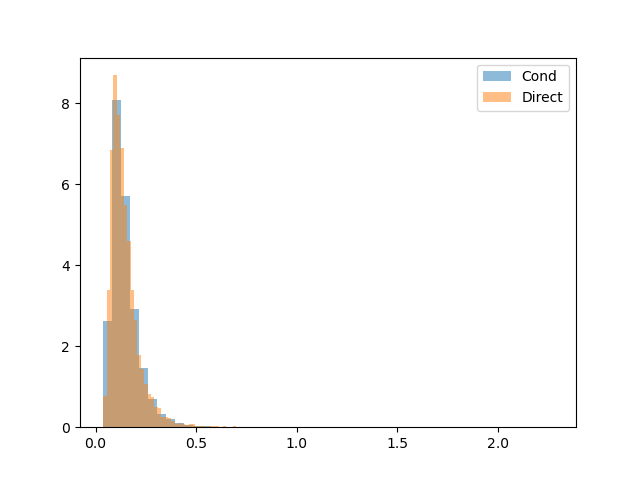
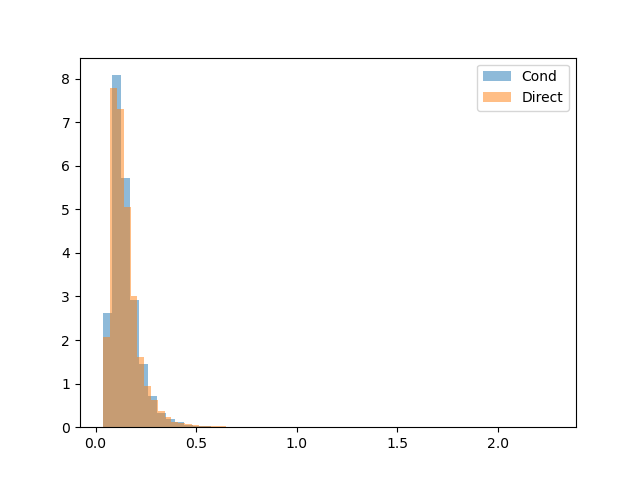
looking again

diff --git a/test2.py b/test2.py
@@ -71,6 +71,6 @@ h_successes = d["h_successes"]
 
 
 plt.hist(h_cond, label="Cond", alpha=0.5, density=True, bins = 50)
-plt.hist(h_direct[:], label="Direct", alpha = 0.5, density=True, bins = 100)
+plt.hist(h_direct[:10000], label="Direct", alpha = 0.5, density=True, bins = 50)
 plt.legend(loc="upper right")
 plt.savefig(str(l_interest)+".png")
